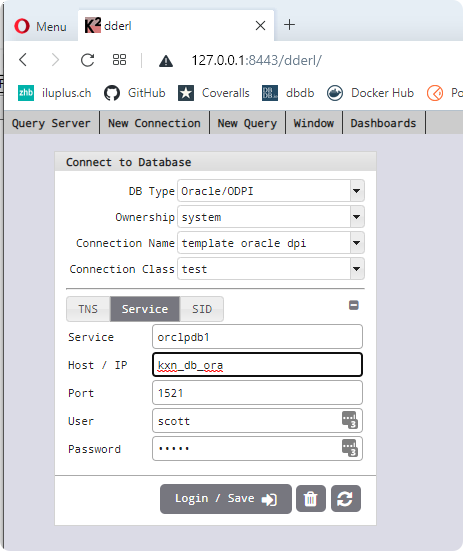
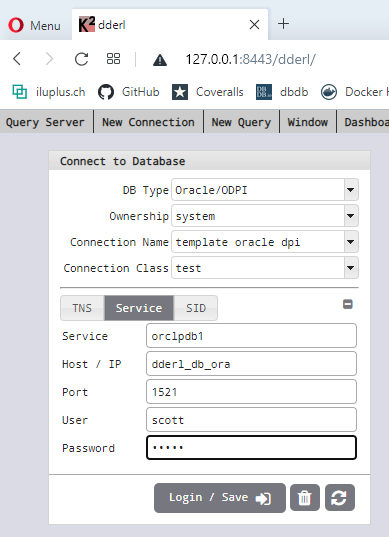
Version 4.0.0: Changes in Docker Compose & build documentation.

Changed region(s): [[0.0, 0.0, 1.0, 1.0], [0.9871, 0.9832, 1.0, 1.0], [0.9871, 0.0, 1.0, 0.0298]]

diff --git a/BUILD.md b/BUILD.md
@@ -79,9 +79,9 @@ This command installs an executable DDErl:
 ![](priv/.BUILD_images/compose_up.png)
 
 The following processing steps are performed:
-1. If not already there, download the Oracle database image and create the container `kxn_db_ora` with an Oracle database (currently 19c).
-2. If not yet available, download the Konnexion development image and create the corresponding container `kxn_dev`.
-3. Both containers are assigned to network `dderl_kxn_net`.
+1. If not already there, download the Oracle database image and create the container `dderl_db_ora` with an Oracle database (currently 19c).
+2. If not yet available, download the Konnexion development image and create the corresponding container `dderl_dev`.
+3. Both containers are assigned to network `dderl_dev_net`.
 4. After the database is ready, the schema `scott` is created with the password `regit` (only with a new database container). 
 5. The repository `https://github.com/KonnexionsGmbH/dderl` is downloaded from Github (only with a new development container).
 6. The frontend to `DDErl` is created (only with a new development container).
@@ -91,21 +91,21 @@ The following processing steps are performed:
 
 #### 2.2.2.1 Enter the Konnexions development container:
 
-    docker exec -it kxn_dev bash
+    docker exec -it dderl_dev bash
     
 **Sample output:**    
     
 ![](priv/.BUILD_images/docker_exec.png)    
 
-Inside the  development container `kxn_dev` the database container `kxn_db_ora` can be addressed with the `kxn_db_ora` as hostname:  
+Inside the  development container `dderl_dev` the database container `dderl_db_ora` can be addressed with the `dderl_db_ora` as hostname:  
 
-    ping kxn_db_ora
+    ping dderl_db_ora
 
 ![](priv/.BUILD_images/ping.png)
 
 #### 2.2.2.2 Optionally the database can be set up
     
-    sqlplus sys/oracle@kxn_db_ora:1521/orclpdb1 as sysdba
+    sqlplus sys/oracle@dderl_db_ora:1521/orclpdb1 as sysdba
     
 ![](priv/.BUILD_images/sqlplus_1.png)
     
@@ -162,13 +162,13 @@ User: `system` Password: `change_on_install`
 
 #### Database connection:
 
-|           |                  |
-| ---       | ---              |
-| Service   | **`orclpdb1`**   |
-| Host / IP | **`kxn_db_ora`** |
-| Port      | **`1521`**       |
-| User      | **`scott`**      |
-| Password  | **`regit`**      |
+|           |                     |
+| ---       | ---                 |
+| Service   | **`orclpdb1`**      |
+| Host / IP | **`ddeerl_db_ora`** |
+| Port      | **`1521`**          |
+| User      | **`scott`**         |
+| Password  | **`regit`**         |
 
 ![](priv/.BUILD_images/Connect.png)
 
